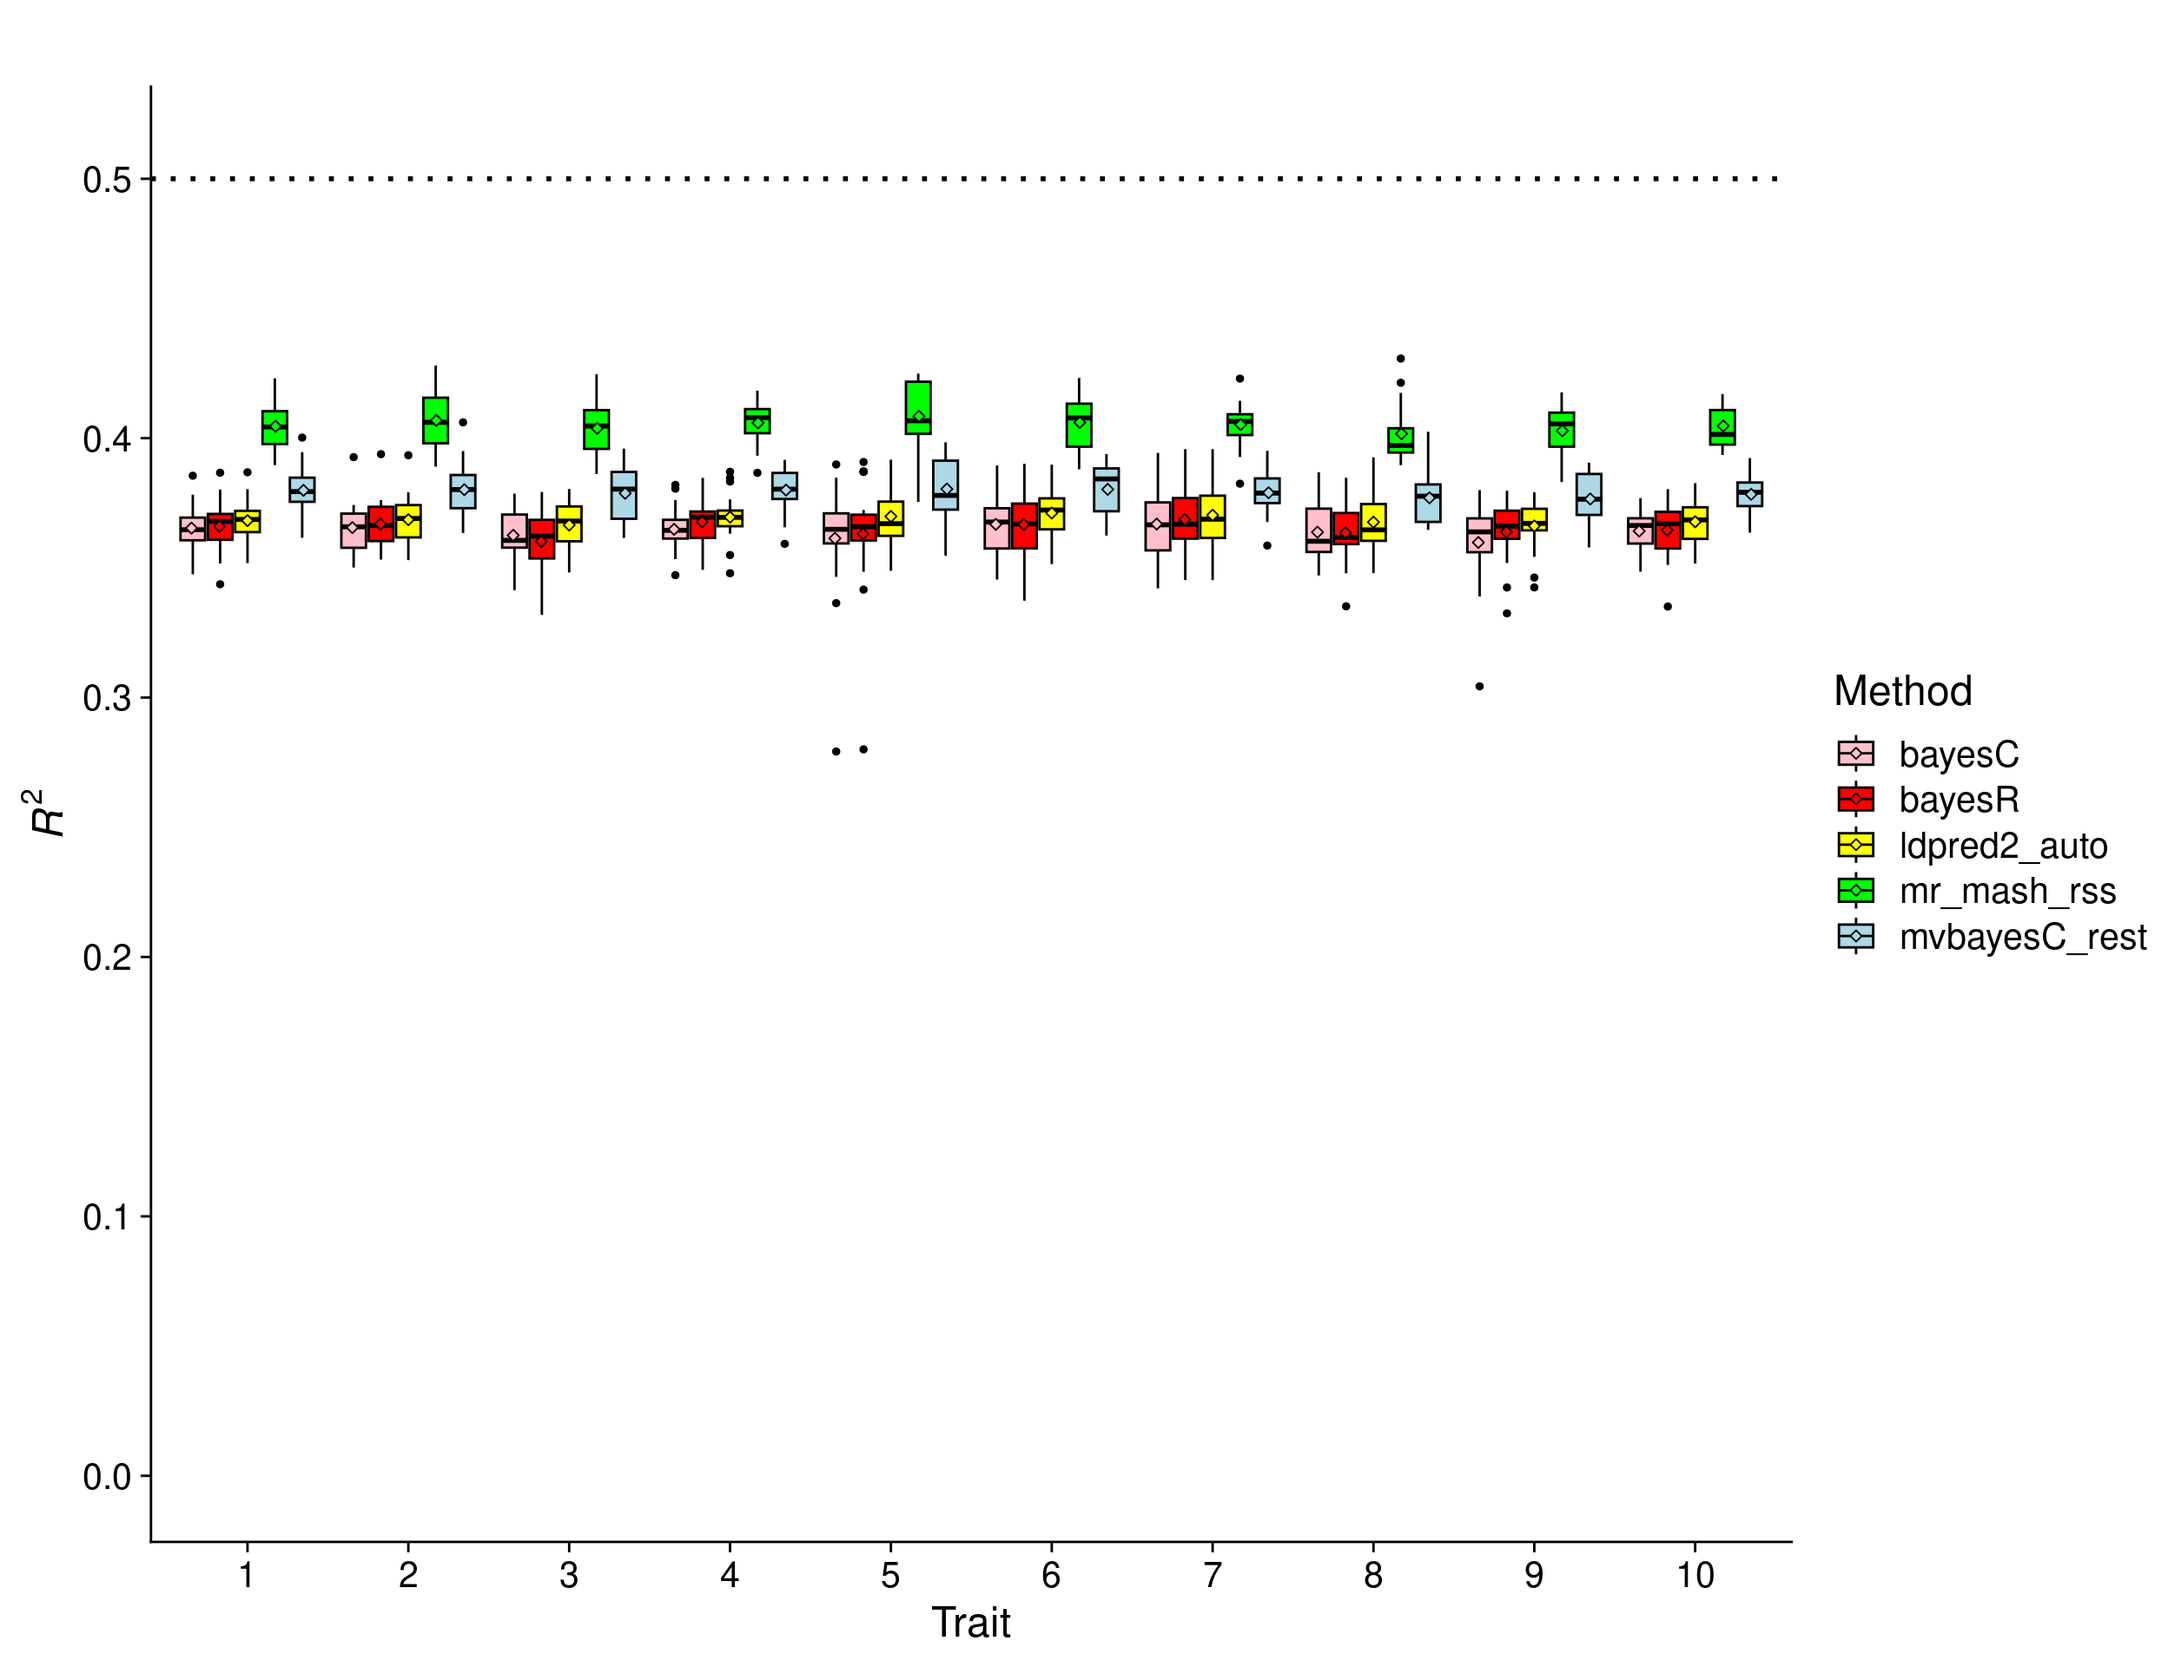
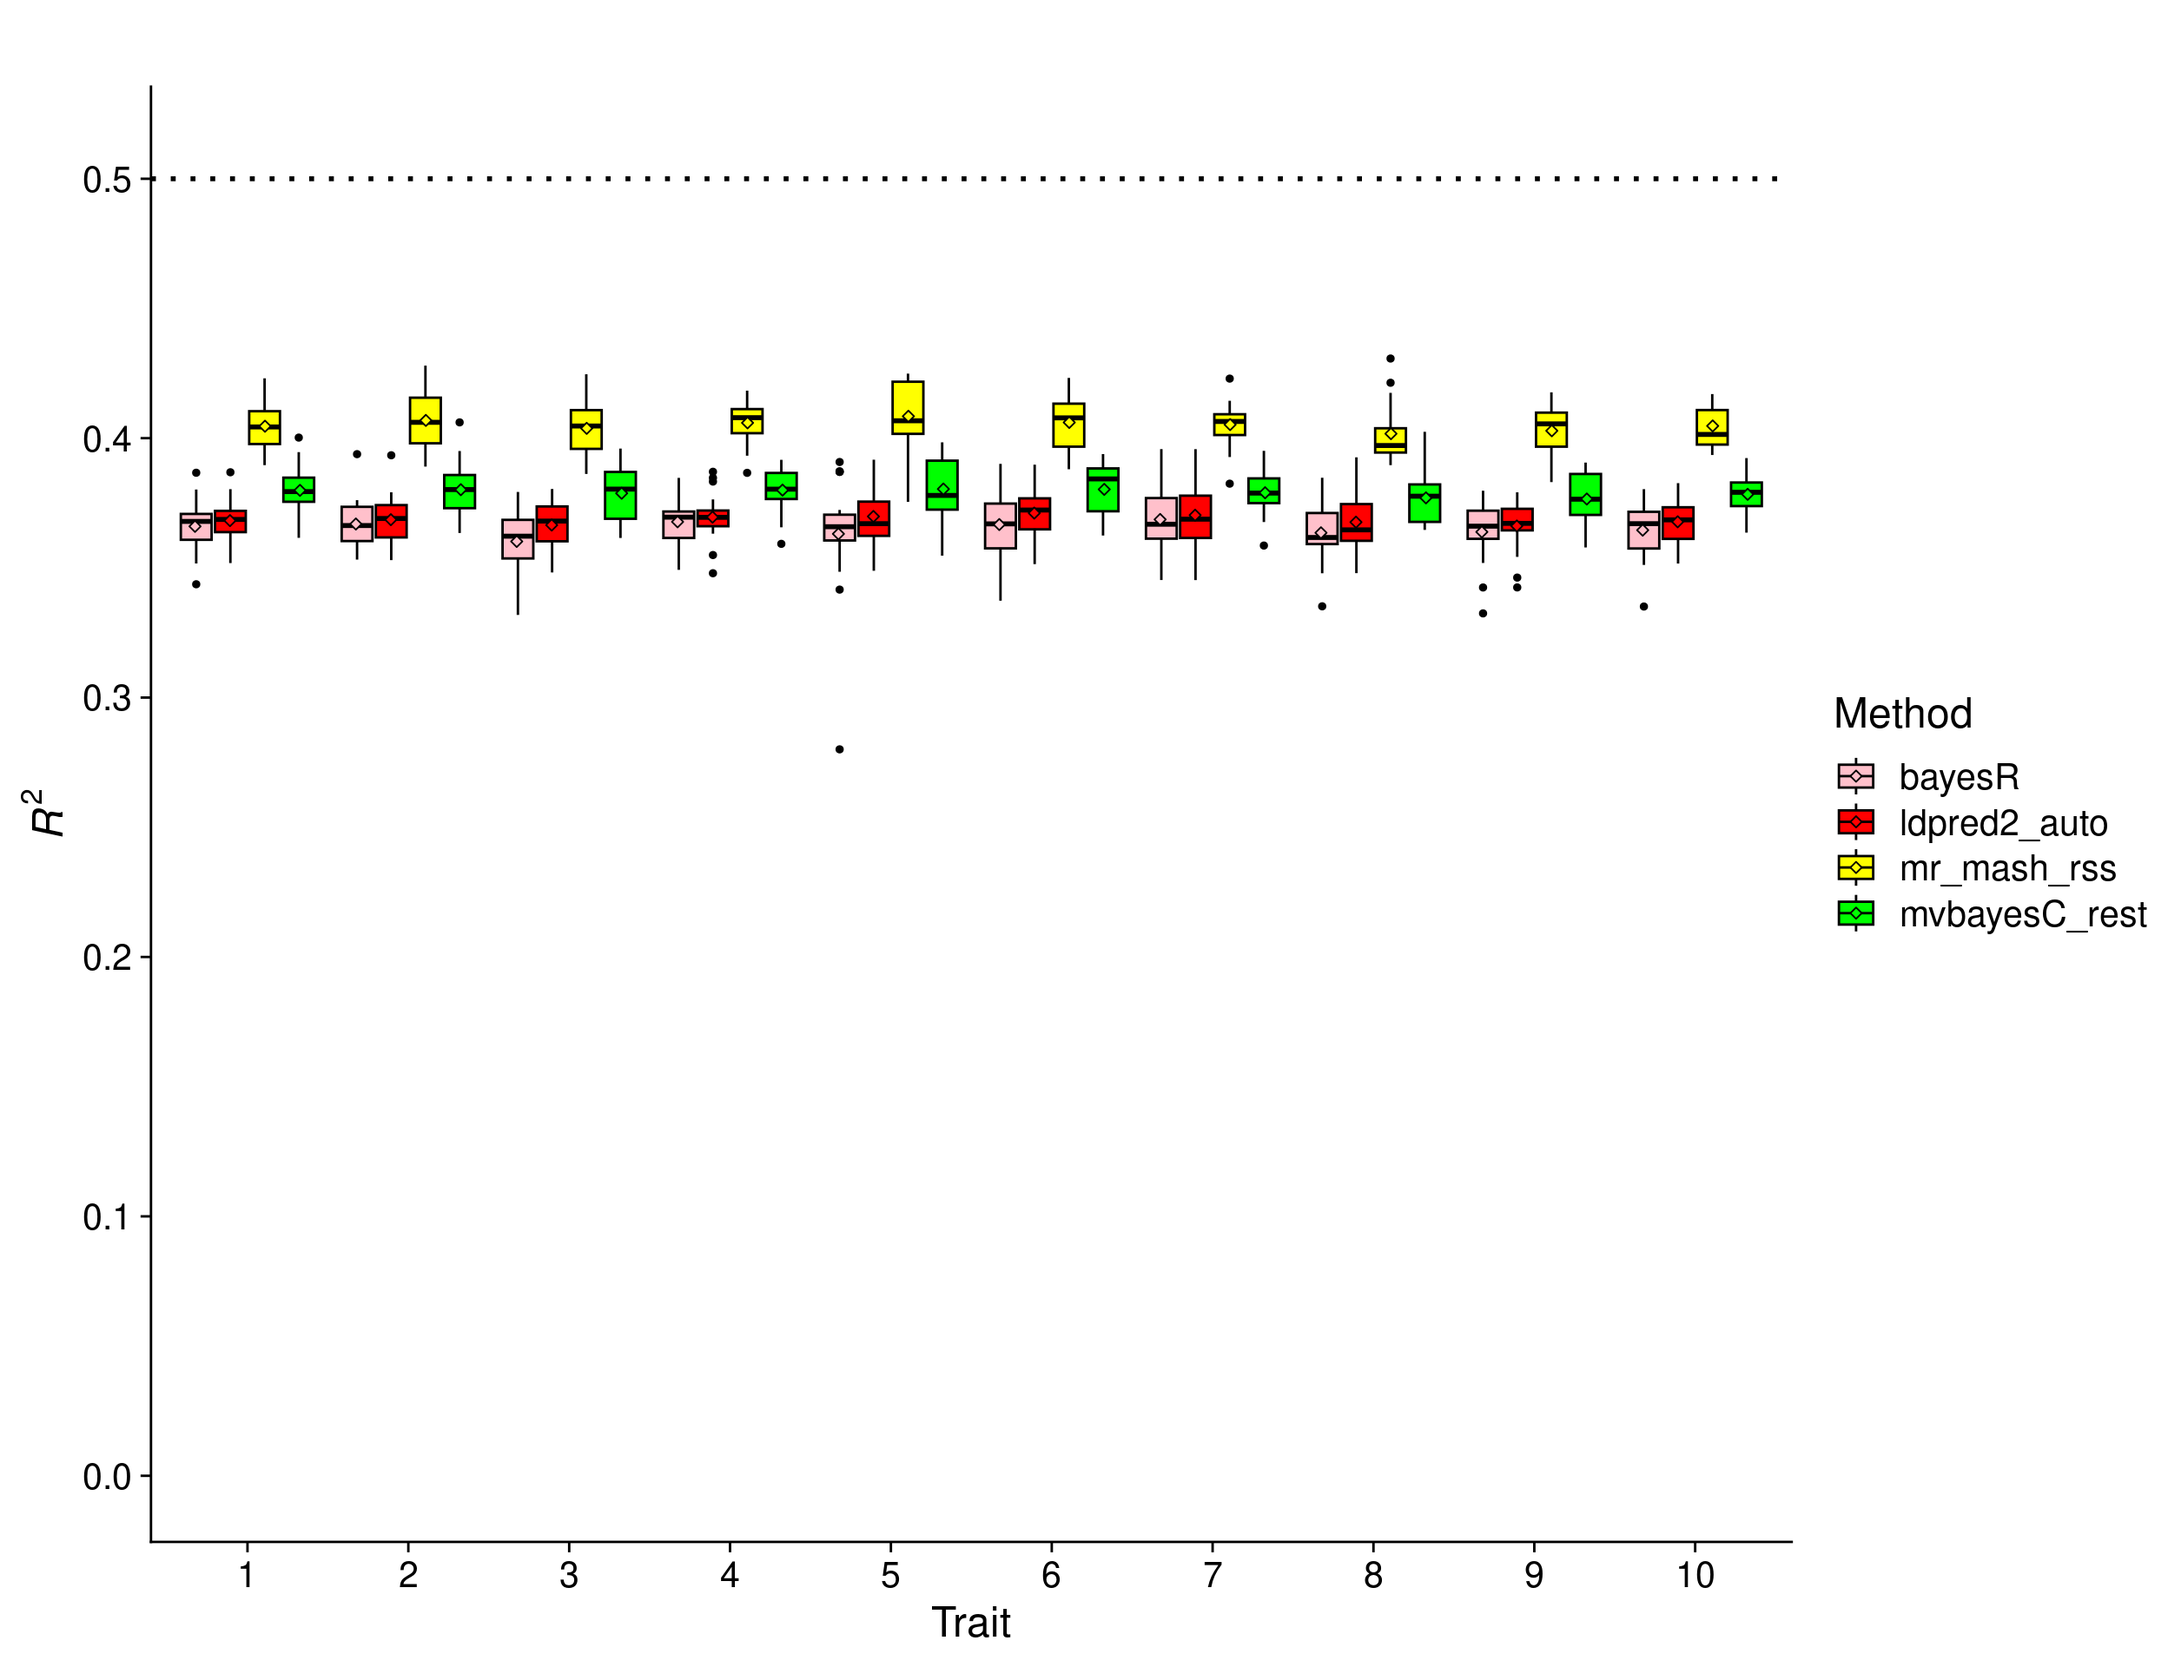
Build site.

Changed region(s): [[0.0625, 0.2188, 0.8125, 0.375], [0.8438, 0.4062, 1.0, 0.5938]]

diff --git a/docs/ukb_sim_results.html b/docs/ukb_sim_results.html
@@ -534,15 +534,15 @@ project makes it easier to run your code on other machines.</p>
 <div class="panel panel-default">
 <div class="panel-heading">
 <p class="panel-title">
-<a data-toggle="collapse" data-parent="#workflowr-checks" href="#strongRepositoryversionstrongahrefhttpsgithubcommorgantelabmrmashrssanalysistree45b66ae62e53e1a98cb15b1aaed0394d5e5c8b40targetblank45b66aea">
+<a data-toggle="collapse" data-parent="#workflowr-checks" href="#strongRepositoryversionstrongahrefhttpsgithubcommorgantelabmrmashrssanalysistree62b5969304ae4b95824e875b50292f36d591355ctargetblank62b5969a">
 <span class="glyphicon glyphicon-ok text-success"
 aria-hidden="true"></span> <strong>Repository version:</strong>
-<a href="https://github.com/morgantelab/mr_mash_rss_analysis/tree/45b66ae62e53e1a98cb15b1aaed0394d5e5c8b40" target="_blank">45b66ae</a>
+<a href="https://github.com/morgantelab/mr_mash_rss_analysis/tree/62b5969304ae4b95824e875b50292f36d591355c" target="_blank">62b5969</a>
 </a>
 </p>
 </div>
 <div
[2 lines of base64/hex data omitted]
 class="panel-collapse collapse">
 <div class="panel-body">
 <p>
@@ -552,7 +552,7 @@ reproducibility.
 </p>
 <p>
 The results in this page were generated with repository version
-<a href="https://github.com/morgantelab/mr_mash_rss_analysis/tree/45b66ae62e53e1a98cb15b1aaed0394d5e5c8b40" target="_blank">45b66ae</a>.
+<a href="https://github.com/morgantelab/mr_mash_rss_analysis/tree/62b5969304ae4b95824e875b50292f36d591355c" target="_blank">62b5969</a>.
 See the <em>Past versions</em> tab to see a history of the changes made
 to the R Markdown and HTML files.
 </p>
@@ -651,6 +651,40 @@ Message
 </tr>
 </thead>
 <tbody>
+<tr>
+<td>
+Rmd
+</td>
+<td>
+<a href="https://github.com/morgantelab/mr_mash_rss_analysis/blob/62b5969304ae4b95824e875b50292f36d591355c/analysis/ukb_sim_results.Rmd" target="_blank">62b5969</a>
+</td>
+<td>
+fmorgante
+</td>
+<td>
+2024-07-23
+</td>
+<td>
+Remove BayesC results
+</td>
+</tr>
+<tr>
+<td>
+html
+</td>
+<td>
+<a href="https://rawcdn.githack.com/morgantelab/mr_mash_rss_analysis/cd5995ec0a614f68a313c4bf3d55ab4a8b0dab55/docs/ukb_sim_results.html" target="_blank">cd5995e</a>
+</td>
+<td>
+fmorgante
+</td>
+<td>
+2024-07-23
+</td>
+<td>
+Build site.
+</td>
+</tr>
 <tr>
 <td>
 Rmd
@@ -2366,15 +2400,11 @@ factor of 5, <span class="math inline">\(\pi\)</span> (i.e., the
 proportion of causal variants) initialized as 0.0001, <span
 class="math inline">\(h^2\)</span> initialized as 0.1, and other default
 parameters. NB this is a univariate method. We used the implementation
-in the <em>qgg</em> R package.</li>
-<li><a
-href="https://bmcbioinformatics.biomedcentral.com/articles/10.1186/1471-2105-12-186">BayesC</a>
-per-chromosome, with 5000 iterations, 1000 burn-in iterations, thinning
-factor of 5, <span class="math inline">\(\pi\)</span> (i.e., the
-proportion of causal variants) initialized as 0.0001, <span
-class="math inline">\(h^2\)</span> initialized as 0.1, and other default
-parameters. NB this is a univariate method. We used the implementation
-in the <em>qgg</em> R package.</li>
+in the <em>qgg</em> R package.
+<!-- * [BayesC](https://bmcbioinformatics.biomedcentral.com/articles/10.1186/1471-2105-12-186) per-chromosome,  -->
+<!-- with 5000 iterations, 1000 burn-in iterations, thinning factor of 5, $\pi$ (i.e., the proportion of causal variants)  -->
+<!-- initialized as 0.0001, $h^2$ initialized as 0.1, and other default parameters. NB this is a univariate method.  -->
+<!-- We used the implementation in the *qgg* R package. --></li>
 <li><a
 href="https://academic.oup.com/genetics/article/209/1/89/5931015">mvBayesC</a>
 per-chromosome, with 5000 iterations, 1000 burn-in iterations, thinning
@@ -2412,7 +2442,7 @@ per-trait variance of 1 and a correlation across traits of 1. This
 implies that the effects of the causal variants are equal across
 responses.</p>
 <pre class="r"><code>scenarioz &lt;- &quot;equal_effects_indep_resid&quot;
-methodz &lt;- c(&quot;mr_mash_rss&quot;, &quot;mvbayesC&quot;, &quot;mvbayesC_rest&quot;, &quot;wmt_sblup&quot;, &quot;ldpred2_auto&quot;, &quot;bayesC&quot;, &quot;bayesR&quot;)
+methodz &lt;- c(&quot;mr_mash_rss&quot;, &quot;mvbayesC&quot;, &quot;mvbayesC_rest&quot;, &quot;wmt_sblup&quot;, &quot;ldpred2_auto&quot;, &quot;bayesR&quot;)
 
 i &lt;- 0
 
@@ -2678,7 +2708,7 @@ distribution with mean vector 0 and covariance matrix that achieves
 effects (with variance 1) to be present only trait 1. The other 4 traits
 are only random noise.</p>
 <pre class="r"><code>scenarioz &lt;- &quot;trait_1_only_effects_indep_resid&quot;
-methodz &lt;- c(&quot;mr_mash_rss&quot;, &quot;mvbayesC&quot;, &quot;mvbayesC_rest&quot;, &quot;ldpred2_auto&quot;, &quot;bayesC&quot;, &quot;bayesR&quot;)
+methodz &lt;- c(&quot;mr_mash_rss&quot;, &quot;mvbayesC&quot;, &quot;mvbayesC_rest&quot;, &quot;ldpred2_auto&quot;, &quot;bayesR&quot;)
 
 i &lt;- 0
 
@@ -2895,7 +2925,7 @@ of the mixture applies to traits 1-3 while the second component applies
 to traits 4-5. The per-trait <span class="math inline">\(h^2_g\)</span>
 is 0.3 for traits 1-3 and 0.5 for the traits 4-5.</p>
 <pre class="r"><code>scenarioz &lt;- &quot;blocks_shared_effects_indep_resid&quot;
-methodz &lt;- c(&quot;mr_mash_rss&quot;, &quot;mvbayesC&quot;, &quot;mvbayesC_rest&quot;, &quot;ldpred2_auto&quot;, &quot;bayesC&quot;, &quot;bayesR&quot;)
+methodz &lt;- c(&quot;mr_mash_rss&quot;, &quot;mvbayesC&quot;, &quot;mvbayesC_rest&quot;, &quot;ldpred2_auto&quot;, &quot;bayesR&quot;)
 
 i &lt;- 0
 
@@ -3132,7 +3162,7 @@ responses. In addition, the per-trait genomic heritability was set to
 initialized as 0.01 in <em>BayesC</em>, <em>BayesR</em>,
 <em>mvBayesC</em> and <em>mvBayesCrest</em>.</p>
 <pre class="r"><code>scenarioz &lt;- &quot;equal_effects_low_pve_indep_resid&quot;
-methodz &lt;- c(&quot;mr_mash_rss&quot;, &quot;mvbayesC&quot;, &quot;mvbayesC_rest&quot;, &quot;ldpred2_auto&quot;, &quot;bayesC&quot;, &quot;bayesR&quot;)
+methodz &lt;- c(&quot;mr_mash_rss&quot;, &quot;mvbayesC&quot;, &quot;mvbayesC_rest&quot;, &quot;ldpred2_auto&quot;, &quot;bayesR&quot;)
 
 i &lt;- 0
 
@@ -3322,7 +3352,7 @@ In this scenario, <span class="math inline">\(\pi\)</span> was
 initialized as 0.01 in <em>BayesC</em>, <em>BayesR</em>,
 <em>mvBayesC</em>, and <em>mvBayesCrest</em>.</p>
 <pre class="r"><code>scenarioz &lt;- &quot;equal_effects_50000causal_indep_resid&quot;
-methodz &lt;- c(&quot;mr_mash_rss&quot;, &quot;mvbayesC&quot;, &quot;mvbayesC_rest&quot;, &quot;ldpred2_auto&quot;, &quot;bayesC&quot;, &quot;bayesR&quot;)
+methodz &lt;- c(&quot;mr_mash_rss&quot;, &quot;mvbayesC&quot;, &quot;mvbayesC_rest&quot;, &quot;ldpred2_auto&quot;, &quot;bayesR&quot;)
 
 i &lt;- 0
 
@@ -3498,7 +3528,7 @@ per-trait variance of 1 and a correlation across traits of 1. This
 implies that the effects of the causal variants are equal across
 responses. In addition, the number of traits was increased to 10.</p>
 <pre class="r"><code>scenarioz &lt;- &quot;equal_effects_10traits_indep_resid&quot;
-methodz &lt;- c(&quot;mr_mash_rss&quot;, &quot;mvbayesC_rest&quot;, &quot;ldpred2_auto&quot;, &quot;bayesC&quot;, &quot;bayesR&quot;)
+methodz &lt;- c(&quot;mr_mash_rss&quot;, &quot;mvbayesC_rest&quot;, &quot;ldpred2_auto&quot;, &quot;bayesR&quot;)
 
 i &lt;- 0
 
